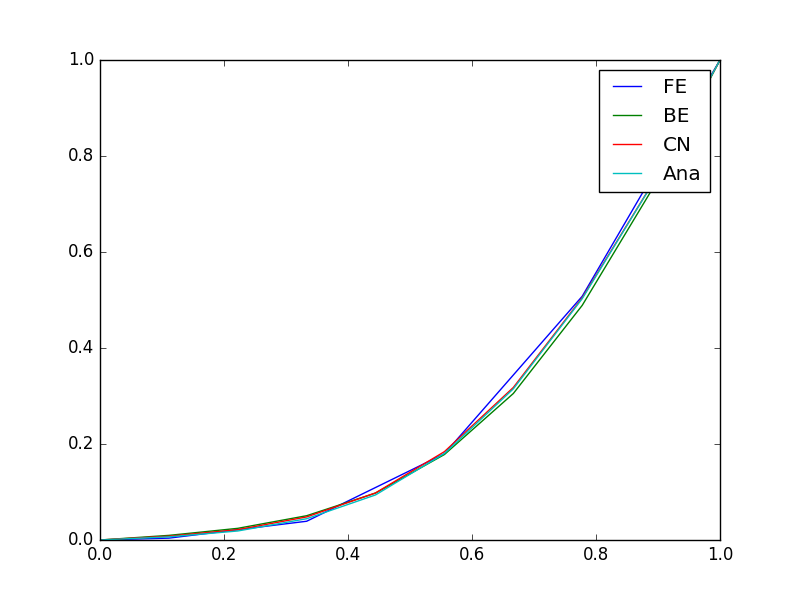
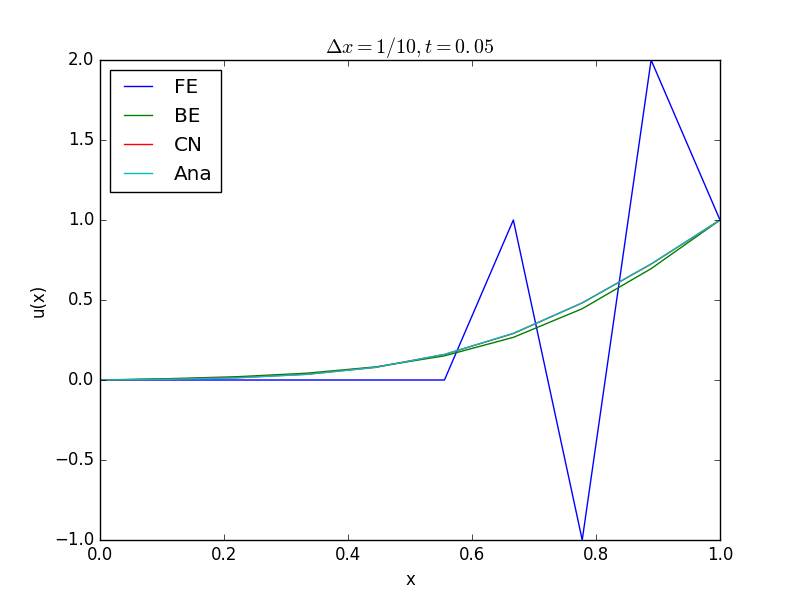
Finalizing 1d implementation

diff --git a/Project5/Programs/main.cpp b/Project5/Programs/main.cpp
@@ -20,11 +20,19 @@ void Crank_Nicolson(double dx, double dt, int t_f, int t1, int t2, int n);
 
 int main( int argc, char *argv[] ){
 
-	int n = 9; 
+	int n =  atoi(argv[1]); 
 	double h = 1.0/((double) n +1.0); 
 	double delta_t = h*h/2.0; 
-	int t_f = atoi(argv[1]); 
-	int t1 = 10; int t2 = 500; 
+	double t_f = 10/delta_t; 
+	double t1 = 0.05/delta_t; double t2 = 0.5/delta_t; 
+	cout << "------------" << endl; 
+	cout << "n = " << n << endl; 
+	cout << "h = " << h << endl;  
+	cout << "dt = " << delta_t << endl;
+	cout << "t_f = " << t_f << endl;
+	cout << "t_1 = " << t1 << endl; 
+	cout << "t_2 = " << t2 << endl;
+	cout << "------------" << endl;        
 	Forward_Euler(h, delta_t, t_f, t1, t2, n); 	
 	Backward_Euler(h, delta_t, t_f, t1, t2, n); 
 	Crank_Nicolson(h, delta_t, t_f, t1, t2, n); 
@@ -55,11 +63,11 @@ void Forward_Euler(double dx, double dt, int t_f, int t1, int t2, int n){
 		u(i) = 0.0; 
 		unew(i) = 0.0; 
 	}
-
+	//for( int j = 0; j<= n; j++ ) cout << j*dx << endl; 
 	// Forward-Euler solver 
 	for( int t = 1; t <= t_f; t++ ){
 		for( int i = 1; i<n; i++ ){
-						
+			
 			unew(i) = alpha*u(i-1) + (1.0 - 2.0*alpha)*u(i) + alpha*u(i+1); 	
 			//u(i) = unew(i); 
 
@@ -106,6 +114,7 @@ void Backward_Euler(double dx, double dt, int t_f, int t1, int t2, int n){
 
 		for( int i = 1; i<n; i++ )  d(i) = 1.0+2.0*alpha; 
 		for( int i = 1; i<n; i++ )	b(i) = -alpha;  
+
 		// Forward substitution 
 		for( int i = 2; i<n; i++ ){
 
@@ -119,8 +128,8 @@ void Backward_Euler(double dx, double dt, int t_f, int t1, int t2, int n){
 			unew(i-1) = ( u(i-1) - b(i-1)*unew(i) )/d(i-1); 
 		}
 
-		if( t == t1-1 ) u_t1 = unew; // keep results at t1 and t2
-		if( t == t2-1 ) u_t2 = unew; 
+		if( t == t1 ) u_t1 = unew; // keep results at t1 and t2
+		if( t == t2 ) u_t2 = unew; 
 		u = unew; 
 	}
 
@@ -177,8 +186,8 @@ void Crank_Nicolson(double dx, double dt, int t_f, int t1, int t2, int n){
 			unew(i-1) = ( r(i-1) - b(i-1)*unew(i) )/d(i-1); 
 		}
 
-		if( t == t1-1 ) u_t1 = unew; // keep results at t1 and t2
-		if( t == t2-1 ) u_t2 = unew; 
+		if( t == t1 ) u_t1 = unew; // keep results at t1 and t2
+		if( t == t2 ) u_t2 = unew; 
 		u = unew; 
 	}
 

diff --git a/Project5/Programs/Diffusion_1d.py b/Project5/Programs/Diffusion_1d.py
@@ -32,7 +32,7 @@ for line in infile_CN:
 
 N = len(u1_FE)
 
-print N
+#print N
 
 x = linspace(0,1,N)
 u_ana_1 = zeros(N)
@@ -40,17 +40,21 @@ u_ana_2 = zeros(N)
 u_ana_1[N-1] = 1.0
 u_ana_2[N-1] = 1.0
 
-t1 = 0.5*(1/float(N))**2*11
-t2 = 0.5*(1/float(N))**2*500
+t1 = 0.5*(1/float(N))**2*10
+t2 = 0.5*(1/float(N))**2*100
+print t1 
+print t2
+
 
 for i in range(1,len(x)-1):
-	for n in range(1,100): 
+	for n in range(1,25): 
 		u_ana_1[i] += (-1)**(n-1)/float(n)*sin(n*pi*x[i])*exp(-(n*pi)**2*t1)			
 		u_ana_2[i] += (-1)**(n-1)/float(n)*sin(n*pi*x[i])*exp(-(n*pi)**2*t2)	
 	u_ana_1[i] = x[i] - 2/pi*u_ana_1[i]
 	u_ana_2[i] = x[i] - 2/pi*u_ana_2[i]
 
-#print u_ana_1
+print u_ana_1
+#print u_ana_2
 """
 figure(); 
 plot(x,u_ana_1)
@@ -64,14 +68,21 @@ u2_BE = array(u2_BE)
 u1_CN = array(u1_CN)
 u2_CN = array(u2_CN) 
 
+#print len(u_ana_1) 
+#print len(u1_CN)
+#print x
+
 figure(); 
 plot(x, u1_FE) 
 plot(x, u1_BE) 
 plot(x, u1_CN)
 plot(x, u_ana_1)
-legend(['FE', 'BE', 'CN', 'Ana'])
+legend(['FE', 'BE', 'CN', 'Ana'], loc = 2)
+xlabel('x')
+ylabel('u(x)')
+title(r'$\Delta x = 1/10, t=%.2f$' %t1 )
 savefig('Output/Diffusion_1d_t1.png')
-#show()
+show()
 
 figure(); 
 plot(x, u2_FE)
@@ -79,6 +90,9 @@ plot(x, u2_BE)
 plot(x, u2_CN)
 plot(x, u_ana_2)
 legend(['FE', 'BE', 'CN', 'Ana'])
+xlabel('x')
+ylabel('u(x)')
+title(r'$\Delta x = 1/10, t=%.2f$' %t2 )
 savefig('Output/Diffusion_1d_t2.png')
 #show()
 
